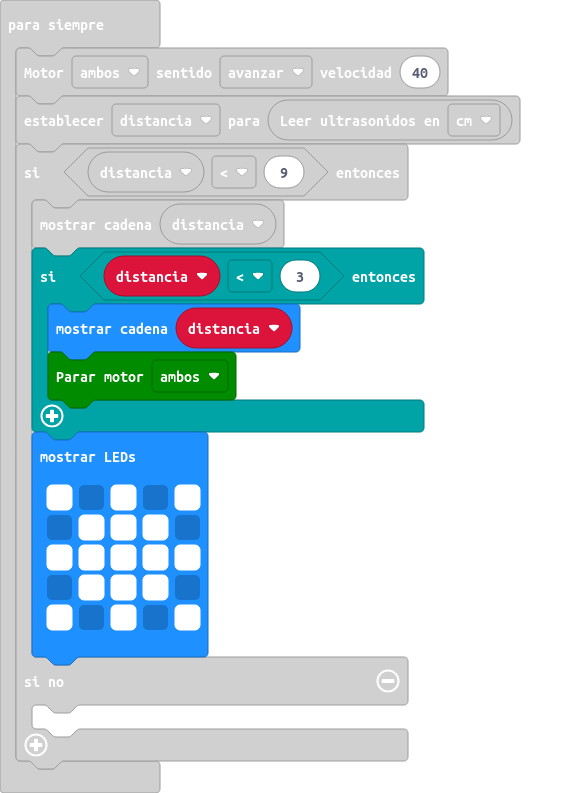
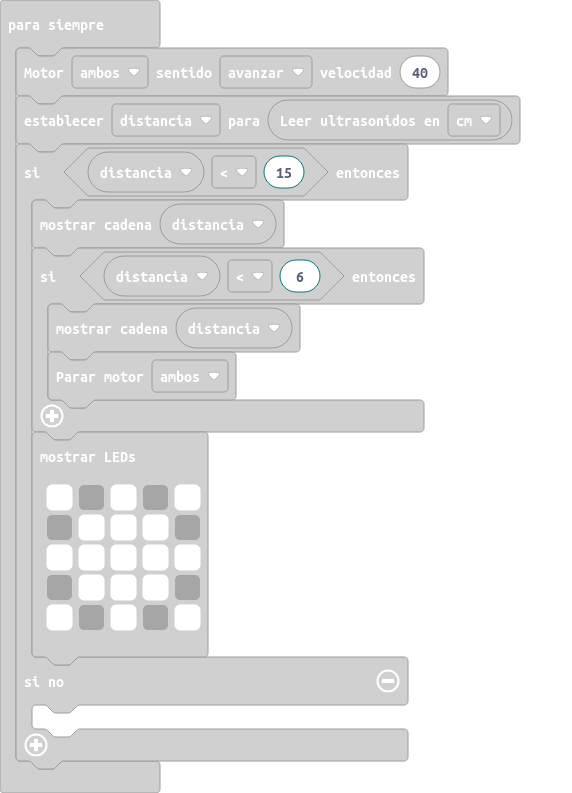
Actualizar main.blocks, main.ts

Changed region(s): [[0.0297, 0.3026, 0.743, 0.8474], [0.4755, 0.2119, 0.535, 0.2421]]

diff --git a/main.ts b/main.ts
@@ -2,9 +2,9 @@ let distancia = 0
 basic.forever(function () {
     maqueen.motorRun(maqueen.Motors.All, maqueen.Dir.CW, 40)
     distancia = maqueen.Ultrasonic(PingUnit.Centimeters)
-    if (distancia < 9) {
+    if (distancia < 15) {
         basic.showString("" + (distancia))
-        if (distancia < 3) {
+        if (distancia < 6) {
             basic.showString("" + (distancia))
             maqueen.motorStop(maqueen.Motors.All)
         }
